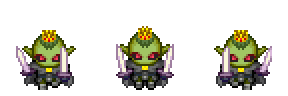
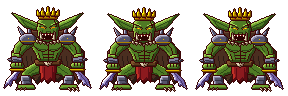
art: redraw Grukk at boss scale in the Pipoya style
The goblin king was a 32 px enemy sprite doubled. He is now drawn from
scratch at 96 px by a new bosses generator: flat cel shading (3-4 tones
per material), the dark red line colour for outline and anatomy, and a
hunched, muscular silhouette with a snarl, tusks, crown and two serrated
scimitars. The upscale manifest transform is removed.

diff --git a/tools/assets/generators/bosses.ts b/tools/assets/generators/bosses.ts
@@ -1,0 +1,297 @@
+/**
+ * Bosses drawn from scratch to match the Pipoya boss sheets (96×96 frames, feet near y 88, 3 idle
+ * frames played 0-1-2-1). Their look, measured on Vaelgor: ~28 colours, flat cel shading (3–4 tones
+ * per material, hard-edged shadows, no gradients or dithering), and one dark red line colour used
+ * both as the outline and to draw anatomy inside the shapes.
+ */
+import type { Rng } from "../../../src/core/math/rng";
+import type { Color } from "../png";
+import type { GeneratedAsset, PaletteModule } from "../types";
+import { asset, Canvas } from "./lib";
+
+const S = 96;
+type Pt = readonly [number, number];
+
+/** A material: shadow, base, light, highlight. */
+type Tones = readonly [Color, Color, Color, Color];
+
+/** A part's footprint, built from ellipses and polygons. */
+class Mask {
+  readonly bits = new Uint8Array(S * S);
+  has(x: number, y: number): boolean {
+    return x >= 0 && y >= 0 && x < S && y < S && this.bits[y * S + x] === 1;
+  }
+  private put(x: number, y: number) {
+    if (x >= 0 && y >= 0 && x < S && y < S) this.bits[y * S + x] = 1;
+  }
+  ell(cx: number, cy: number, rx: number, ry: number): this {
+    for (let y = Math.floor(cy - ry); y <= Math.ceil(cy + ry); y++)
+      for (let x = Math.floor(cx - rx); x <= Math.ceil(cx + rx); x++) if (((x + 0.5 - cx) / rx) ** 2 + ((y + 0.5 - cy) / ry) ** 2 <= 1) this.put(x, y);
+    return this;
+  }
+  poly(pts: readonly Pt[]): this {
+    const ys = pts.map((p) => p[1]);
+    for (let y = Math.floor(Math.min(...ys)); y <= Math.ceil(Math.max(...ys)); y++)
+      for (let x = 0; x < S; x++) {
+        let hit = false;
+        for (let i = 0, j = pts.length - 1; i < pts.length; j = i++) {
+          const [xi, yi] = pts[i]!;
+          const [xj, yj] = pts[j]!;
+          if (yi > y + 0.5 !== yj > y + 0.5 && x + 0.5 < ((xj - xi) * (y + 0.5 - yi)) / (yj - yi) + xi) hit = !hit;
+        }
+        if (hit) this.put(x, y);
+      }
+    return this;
+  }
+}
+
+/** Hand-placed strokes inside a part (only where the part is). */
+class Detail {
+  constructor(
+    readonly c: Canvas,
+    readonly m: Mask
+  ) {}
+  px(x: number, y: number, col: Color) {
+    if (this.m.has(x, y)) this.c.set(x, y, col);
+  }
+  stroke(pts: readonly Pt[], col: Color) {
+    for (let i = 0; i + 1 < pts.length; i++) {
+      const [x0, y0] = pts[i]!;
+      const [x1, y1] = pts[i + 1]!;
+      const n = Math.max(Math.abs(x1 - x0), Math.abs(y1 - y0), 1);
+      for (let k = 0; k <= n; k++) this.px(Math.round(x0 + ((x1 - x0) * k) / n), Math.round(y0 + ((y1 - y0) * k) / n), col);
+    }
+  }
+}
+
+/**
+ * Figure built part by part (back to front). Each part is cel-shaded from its own silhouette (light
+ * from the top-left: a light band along top-left edges, a shadow band along bottom-right edges) and
+ * outlined in the line colour before the next part goes over it.
+ */
+class Figure {
+  readonly c = new Canvas(S, S);
+  constructor(readonly line: Color) {}
+
+  part(mask: Mask, t: Tones, opts: { shadow?: number; light?: number; hi?: boolean; outline?: boolean; details?: (d: Detail) => void } = {}): void {
+    const layer = new Canvas(S, S);
+    const sh = opts.shadow ?? 2;
+    const li = opts.light ?? 2;
+    for (let y = 0; y < S; y++)
+      for (let x = 0; x < S; x++) {
+        if (!mask.has(x, y)) continue;
+        let tone = 1;
+        if (!mask.has(x + sh, y + 1) || !mask.has(x + 1, y + sh)) tone = 0;
+        else if (!mask.has(x - li, y - li) || !mask.has(x - li, y)) tone = 2;
+        if (opts.hi && tone === 2 && !mask.has(x - 1, y - 1) && mask.has(x + 2, y + 2)) tone = 3;
+        layer.set(x, y, t[tone]!);
+      }
+    opts.details?.(new Detail(layer, mask));
+    if (opts.outline !== false) layer.outline(this.line);
+    this.c.blit(layer, 0, 0);
+  }
+}
+
+/** Mirror around the sprite's vertical axis. */
+const m = (x: number) => S - 1 - x;
+const SIDES = [(x: number) => x, m] as const;
+const shift = (pts: readonly Pt[], dy: number): Pt[] => pts.map(([x, y]) => [x, y + dy]);
+/** Points placed on one side (X = identity or mirror), moved down by dy. */
+const at = (X: (x: number) => number, pts: readonly Pt[], dy = 0): Pt[] => pts.map(([x, y]) => [X(x), y + dy]);
+
+// ---- Grukk, the Goblin King -------------------------------------------------------------------
+
+function goblinKing(frame: number): Canvas {
+  // Pipoya-like saturated tones, 4 per material.
+  const LINE = "#3c0707";
+  const SKIN: Tones = ["#2e4a17", "#4f7a24", "#72a332", "#a3cf52"];
+  const IRON: Tones = ["#33303f", "#55536a", "#8583a0", "#c4c2d8"];
+  const GOLD: Tones = ["#764a00", "#ad8100", "#e3b700", "#fffc00"];
+  const BLADE: Tones = ["#45346b", "#7564a8", "#b5aadf", "#ffffff"];
+  const FUR: Tones = ["#2b1a14", "#4a2e20", "#6e4630", "#93643f"];
+  const CLOTH: Tones = ["#5a0c12", "#8c1a1e", "#bf2f26", "#e3593d"];
+  const BONE: Tones = ["#7a6a50", "#b2a280", "#e2d6b6", "#fff9ea"];
+  const LEATHER: Tones = ["#3a2010", "#5e3a1c", "#80542c", "#a0723e"];
+  const EYE = { glow: "#ff8000", core: "#fffc00" };
+  const MOUTH: Tones = ["#2a0303", "#2a0303", "#7c1414", "#7c1414"];
+
+  // Idle: the upper body heaves (0, 1, 1 px), the eyes pulse.
+  const b = [0, 1, 1][frame]!;
+  const bright = frame !== 0;
+  const f = new Figure(LINE);
+
+  // Fur cloak behind the shoulders, ragged hem.
+  {
+    const hem: Pt[] = [];
+    for (let i = 0; i <= 14; i++) hem.push([12 + i * 5.14, 78 + (i % 2 ? 6 : 0) + (i % 3 === 0 ? -2 : 0)]);
+    f.part(new Mask().poly([[30, 30 + b], [66, 30 + b], [84, 52], ...[...hem].reverse(), [12, 52]]), FUR, {
+      shadow: 3,
+      details: (d) => {
+        for (let x = 16; x < 82; x += 5) d.stroke([[x, 56], [x + 2, 74]], FUR[0]); // fur strands
+      },
+    });
+  }
+
+  for (const X of SIDES) {
+    // Scimitar held low, point out toward the ground; serrated back.
+    const blade = at(X, [[17, 70], [12, 74], [7, 80], [4, 88], [7, 86], [9, 84], [11, 86], [13, 80], [16, 80], [18, 75], [21, 71]], b);
+    f.part(new Mask().poly(blade), BLADE, { shadow: 1, hi: true, details: (d) => d.stroke([[X(17), 72 + b], [X(11), 79 + b], [X(7), 86 + b]], BLADE[0]) });
+
+    // Crouched leg: thick thigh bowed out, armoured shin, clawed foot.
+    f.part(new Mask().poly(at(X, [[44, 64], [37, 62], [24, 69], [21, 77], [27, 80], [34, 75], [44, 72]])), SKIN, {
+      hi: true,
+      details: (d) => d.stroke([[X(38), 66], [X(28), 73]], SKIN[0]),
+    });
+    f.part(new Mask().poly(at(X, [[21, 76], [30, 76], [32, 85], [22, 86]])), IRON, { hi: true, details: (d) => d.stroke([[X(23), 80], [X(30), 80]], IRON[0]) });
+    f.part(new Mask().poly(at(X, [[18, 85], [34, 85], [35, 89], [17, 89]])), SKIN, { shadow: 1 });
+    for (const cx of [17, 21, 25]) f.part(new Mask().poly(at(X, [[cx, 88], [cx + 2, 88], [cx - 1, 91]])), BONE, { shadow: 1, light: 1 });
+  }
+
+  // Loincloth and belt with a skull.
+  f.part(new Mask().poly([[40, 64 + b], [56, 64 + b], [55, 82], [51, 79], [48, 83], [45, 79], [41, 82]]), CLOTH, {
+    details: (d) => {
+      d.stroke([[44, 67 + b], [44, 78]], CLOTH[0]);
+      d.stroke([[52, 67 + b], [52, 78]], CLOTH[0]);
+    },
+  });
+  f.part(new Mask().poly([[35, 60 + b], [61, 60 + b], [60, 65 + b], [36, 65 + b]]), LEATHER, { shadow: 1 });
+  f.part(new Mask().ell(48, 62.5 + b, 3.5, 3.2), BONE, {
+    shadow: 1,
+    details: (d) => {
+      d.px(47, 62 + b, LINE);
+      d.px(49, 62 + b, LINE);
+      d.px(48, 64 + b, LINE);
+    },
+  });
+
+  // Torso: a V of muscle — broad chest, narrow waist; pecs and abs drawn in line colour.
+  f.part(new Mask().poly(shift([[30, 38], [66, 38], [65, 46], [60, 54], [57, 61], [39, 61], [36, 54], [31, 46]], b)), SKIN, {
+    hi: true,
+    details: (d) => {
+      const y = (v: number) => v + b;
+      d.stroke([[48, y(41)], [48, y(60)]], LINE);
+      for (const X of SIDES) {
+        d.stroke([[X(34), y(46)], [X(38), y(50)], [X(44), y(51)], [X(47), y(49)]], LINE); // pectorals
+        d.stroke([[X(36), y(47)], [X(40), y(49)], [X(45), y(49)]], SKIN[0]);
+        d.stroke([[X(42), y(52)], [X(43), y(59)]], SKIN[0]);
+        d.stroke([[X(38), y(53)], [X(40), y(59)]], LINE); // obliques
+      }
+      for (const r of [54, 57]) {
+        d.stroke([[43, y(r)], [47, y(r)]], LINE); // abs
+        d.stroke([[49, y(r)], [53, y(r)]], LINE);
+      }
+      for (const [x, yy] of [[39, 43], [41, 43], [55, 43]] as const) d.px(x, y(yy), SKIN[3]);
+    },
+  });
+
+  for (const X of SIDES) {
+    const P = (pts: readonly Pt[]) => pts.map(([x, y]) => [X(x), y + b] as Pt);
+    // Arm: huge, bent, the fist gripping the scimitar.
+    f.part(new Mask().poly(P([[33, 37], [24, 37], [15, 46], [13, 55], [20, 58], [26, 50], [33, 46]])), SKIN, {
+      hi: true,
+      details: (d) => {
+        d.stroke(P([[26, 41], [20, 47], [19, 53]]), LINE); // biceps
+        d.stroke(P([[28, 44], [23, 50]]), SKIN[0]);
+      },
+    });
+    f.part(new Mask().poly(P([[12, 53], [21, 55], [22, 64], [13, 64]])), SKIN, { hi: true });
+    // Spiked iron bracer.
+    f.part(new Mask().poly(P([[12, 57], [22, 58], [22, 62], [12, 62]])), IRON, { shadow: 1, details: (d) => d.stroke(P([[13, 59], [21, 60]]), IRON[0]) });
+    f.part(new Mask().poly(P([[11, 58], [12, 61], [7, 60]])), IRON, { shadow: 1, light: 1 });
+    // Fist clenched around the grip, knuckles drawn in.
+    f.part(new Mask().poly(P([[12, 63], [23, 63], [24, 66], [22, 69], [13, 69], [11, 66]])), SKIN, {
+      hi: true,
+      details: (d) => {
+        for (const k of [15, 18, 21]) d.stroke(P([[k, 63], [k, 65]]), LINE);
+        d.stroke(P([[13, 67], [22, 67]]), SKIN[0]);
+      },
+    });
+    // Gold crossguard where the blade leaves the fist.
+    f.part(new Mask().poly(P([[10, 69], [25, 69], [24, 71], [11, 71]])), GOLD, { shadow: 1, light: 1, hi: true });
+    // Spiked pauldron.
+    for (const spike of [[[22, 36], [26, 35], [17, 25]], [[28, 34], [32, 34], [28, 23]]] as const) f.part(new Mask().poly(P(spike)), IRON, { shadow: 1, light: 1, hi: true });
+    f.part(new Mask().ell(X(28), 39 + b, 8.5, 5), IRON, {
+      hi: true,
+      details: (d) => {
+        d.stroke(P([[21, 41], [35, 41]]), GOLD[1]);
+        d.px(X(28), 38 + b, GOLD[2]);
+      },
+    });
+  }
+
+  // Bone necklace of fangs.
+  for (let i = 0; i < 7; i++) {
+    const x = 37 + i * 3.5;
+    const y = 40 + b + Math.round(Math.abs(i - 3) * -0.5 + 1.5);
+    f.part(new Mask().poly([[x - 1.2, y], [x + 1.6, y], [x + 0.2, y + 4]]), BONE, { shadow: 1, light: 1 });
+  }
+
+  // Ears: long, swept back and up, a gold ring in each.
+  for (const X of SIDES)
+    f.part(new Mask().poly(at(X, [[39, 24], [12, 13], [19, 21], [24, 27], [39, 31]], b)), SKIN, {
+      hi: true,
+      details: (d) => {
+        d.stroke([[X(36), 26 + b], [X(20), 18 + b], [X(26), 25 + b]], SKIN[0]);
+        d.px(X(25), 28 + b, GOLD[3]);
+        d.px(X(25), 29 + b, GOLD[1]);
+      },
+    });
+
+  // Head: low between the shoulders, heavy jaw, slit eyes under a V brow, a scar.
+  const y = (v: number) => v + b;
+  f.part(new Mask().ell(48, y(25), 10.5, 9).poly(shift([[37, 27], [59, 27], [57, 39], [48, 42], [39, 39]], b)), SKIN, {
+    hi: true,
+    details: (d) => {
+      for (const X of SIDES) {
+        d.stroke([[X(38), y(23)], [X(42), y(24)], [X(46), y(27)]], LINE);
+        d.stroke([[X(39), y(22)], [X(44), y(24)]], SKIN[3]);
+        d.stroke([[X(39), y(26)], [X(45), y(28)]], LINE);
+        d.px(X(41), y(27), EYE.glow);
+        d.px(X(42), y(27), bright ? EYE.core : EYE.glow);
+        d.px(X(43), y(27), EYE.glow);
+        d.px(X(44), y(28), EYE.glow);
+        d.stroke([[X(42), y(30)], [X(41), y(35)]], SKIN[0]); // cheek folds
+      }
+      d.stroke([[46, y(31)], [50, y(31)]], SKIN[0]);
+      d.px(46, y(32), LINE);
+      d.px(50, y(32), LINE);
+      d.stroke([[53, y(18)], [56, y(25)]], LINE);
+      d.px(54, y(19), SKIN[3]);
+    },
+  });
+
+  // Snarl: open mouth, jagged fangs, tusks rising from the underbite.
+  f.part(new Mask().poly(shift([[41, 34], [55, 34], [53, 39], [43, 39]], b)), MOUTH, {
+    shadow: 1,
+    light: 1,
+    details: (d) => {
+      for (const x of [42, 45, 48, 51, 54]) d.px(x, y(34), BONE[3]);
+      for (const x of [42, 45, 51, 54]) d.px(x, y(35), BONE[2]);
+      for (const x of [44, 52]) d.px(x, y(38), BONE[2]);
+    },
+  });
+  for (const X of SIDES) f.part(new Mask().poly(at(X, [[40, 40], [43, 39], [40, 31]], b)), BONE, { shadow: 1, light: 1, hi: true });
+
+  // Crude jagged crown.
+  const y0 = y(15);
+  f.part(new Mask().poly([[38, y0], [58, y0], [57, y0 + 4], [39, y0 + 4]]), GOLD, {
+    shadow: 1,
+    light: 1,
+    details: (d) => {
+      for (const x of [42, 48, 54]) {
+        d.px(x, y0 + 2, CLOTH[2]);
+        d.px(x + 1, y0 + 2, CLOTH[0]);
+        d.px(x, y0 + 1, CLOTH[3]);
+      }
+    },
+  });
+  for (const [x, h, lean] of [[39, 6, -2], [43, 8, -1], [48, 11, 0], [53, 8, 1], [57, 6, 2]] as const)
+    f.part(new Mask().poly([[x - 2.2, y0 + 1], [x + 2.2, y0 + 1], [x + lean, y0 - h]]), GOLD, { shadow: 1, light: 1, hi: true });
+
+  return f.c;
+}
+
+export function bosses(_rng: Rng, _P: PaletteModule): GeneratedAsset[] {
+  const frames = [0, 1, 2].map((fr) => goblinKing(fr));
+  return [asset("bosses/goblin-king.png", "boss", Canvas.strip(frames), { w: S, h: S, frames: 3 }, { generator: "bosses", boss: "grukk" })];
+}

diff --git a/tools/assets/build.ts b/tools/assets/build.ts
@@ -71,25 +71,9 @@ function main() {
     entries.push(entry);
   };
 
-  /** Crop, then the optional variant transforms of a manifest entry. */
+  /** Crop, then the optional recolour of a manifest entry. */
   function transform(m: (typeof MANIFEST)[number], src: Canvas): Canvas {
-    let c = m.crop ? src.crop(m.crop.x, m.crop.y, m.crop.w, m.crop.h) : src;
-    if (m.bossFromRow) {
-      const { row, scale, feet } = m.bossFromRow;
-      const fw = src.width / 3;
-      const fh = src.height / 4;
-      const out = new Canvas(96 * 3, 96);
-      for (let f = 0; f < 3; f++) {
-        const ox = f * 96 + Math.round((96 - fw * scale) / 2);
-        const oy = feet - fh * scale + 2;
-        for (let y = 0; y < fh * scale; y++)
-          for (let x = 0; x < fw * scale; x++) {
-            const [r, g, b, a] = src.get(f * fw + Math.floor(x / scale), row * fh + Math.floor(y / scale));
-            if (a) out.set(ox + x, oy + y, [r, g, b], a);
-          }
-      }
-      c = out;
-    }
+    const c = m.crop ? src.crop(m.crop.x, m.crop.y, m.crop.w, m.crop.h) : src;
     if (m.recolor) {
       const { ramp, keep } = m.recolor;
       for (let y = 0; y < c.height; y++)
@@ -112,7 +96,7 @@ function main() {
     const src = path.join(REF, m.from);
     if (!fs.existsSync(src)) throw new Error(`manifest source missing: ref_sprites/${m.from}`);
     const raw = fs.readFileSync(src);
-    const data = m.crop || m.recolor || m.bossFromRow ? transform(m, Canvas.fromPng(raw)).toPng() : raw;
+    const data = m.crop || m.recolor ? transform(m, Canvas.fromPng(raw)).toPng() : raw;
     writeOut(m.to, data);
     const size = pngSize(data);
     add({

diff --git a/tools/assets/manifest.ts b/tools/assets/manifest.ts
@@ -19,11 +19,6 @@ export interface CopyEntry {
   wholeFrame?: boolean;
   /** Repaint by brightness along a ramp (dark → light); `keep` = how much of the original colour survives (0…1). */
   recolor?: { ramp: readonly string[]; keep: number };
-  /**
-   * Character sheet row → boss strip: the row's 3 frames, scaled up (nearest) and bottom-aligned
-   * in 96×96 frames with the feet at `feet` px (the boss sheets' convention).
-   */
-  bossFromRow?: { row: number; scale: number; feet: number };
   meta?: AssetMeta;
 }
 
@@ -91,7 +86,7 @@ const enemies: CopyEntry[] = ENEMY_FILES.map((f) => pipoya("Enemy", f, "enemy", 
 
 /** Boss 01.png = 288×384: 4 bosses (rows) × 3 frames of 96×96. */
 const BOSS_ROWS = ["pale-weaver", "shroud", "maw", "vaelgor"] as const;
-/** Variants made from existing sheets (recolour / upscale): bosses beyond the four Heralds. */
+/** Variants made from existing sheets (recolour): bosses beyond the four Heralds. */
 const bossVariants: CopyEntry[] = [
   {
     from: `${PIPOYA}/Boss/Boss 01.png`,
@@ -103,16 +98,6 @@ const bossVariants: CopyEntry[] = [
     frames: 3,
     recolor: { ramp: ["#0c1626", ...WORLD_RAMPS.ice.slice(1), "#ffffff"], keep: 0.18 },
     meta: { credit: "pipoya", variant: "pale-weaver recoloured (ice)" },
-  },
-  {
-    from: `${PIPOYA}/Enemy/Enemy 22.png`,
-    to: "bosses/goblin-king.png",
-    kind: "boss",
-    frameWidth: 96,
-    frameHeight: 96,
-    frames: 3,
-    bossFromRow: { row: 0, scale: 2, feet: 88 },
-    meta: { credit: "pipoya", variant: "Enemy 22 scaled ×2" },
   },
 ];
 

diff --git a/tools/assets/generators/index.ts b/tools/assets/generators/index.ts
@@ -1,5 +1,6 @@
 /** Registry of procedural generators. Each gets its own seeded rng (seed = generator name). */
 import type { Generator } from "../types";
+import { bosses } from "./bosses";
 import { buildings } from "./buildings";
 import { nature } from "./nature";
 import { tiles } from "./tiles";
@@ -14,4 +15,5 @@ export const GENERATORS: Record<string, Generator> = {
   vfx,
   ui,
   zones,
+  bosses,
 };
